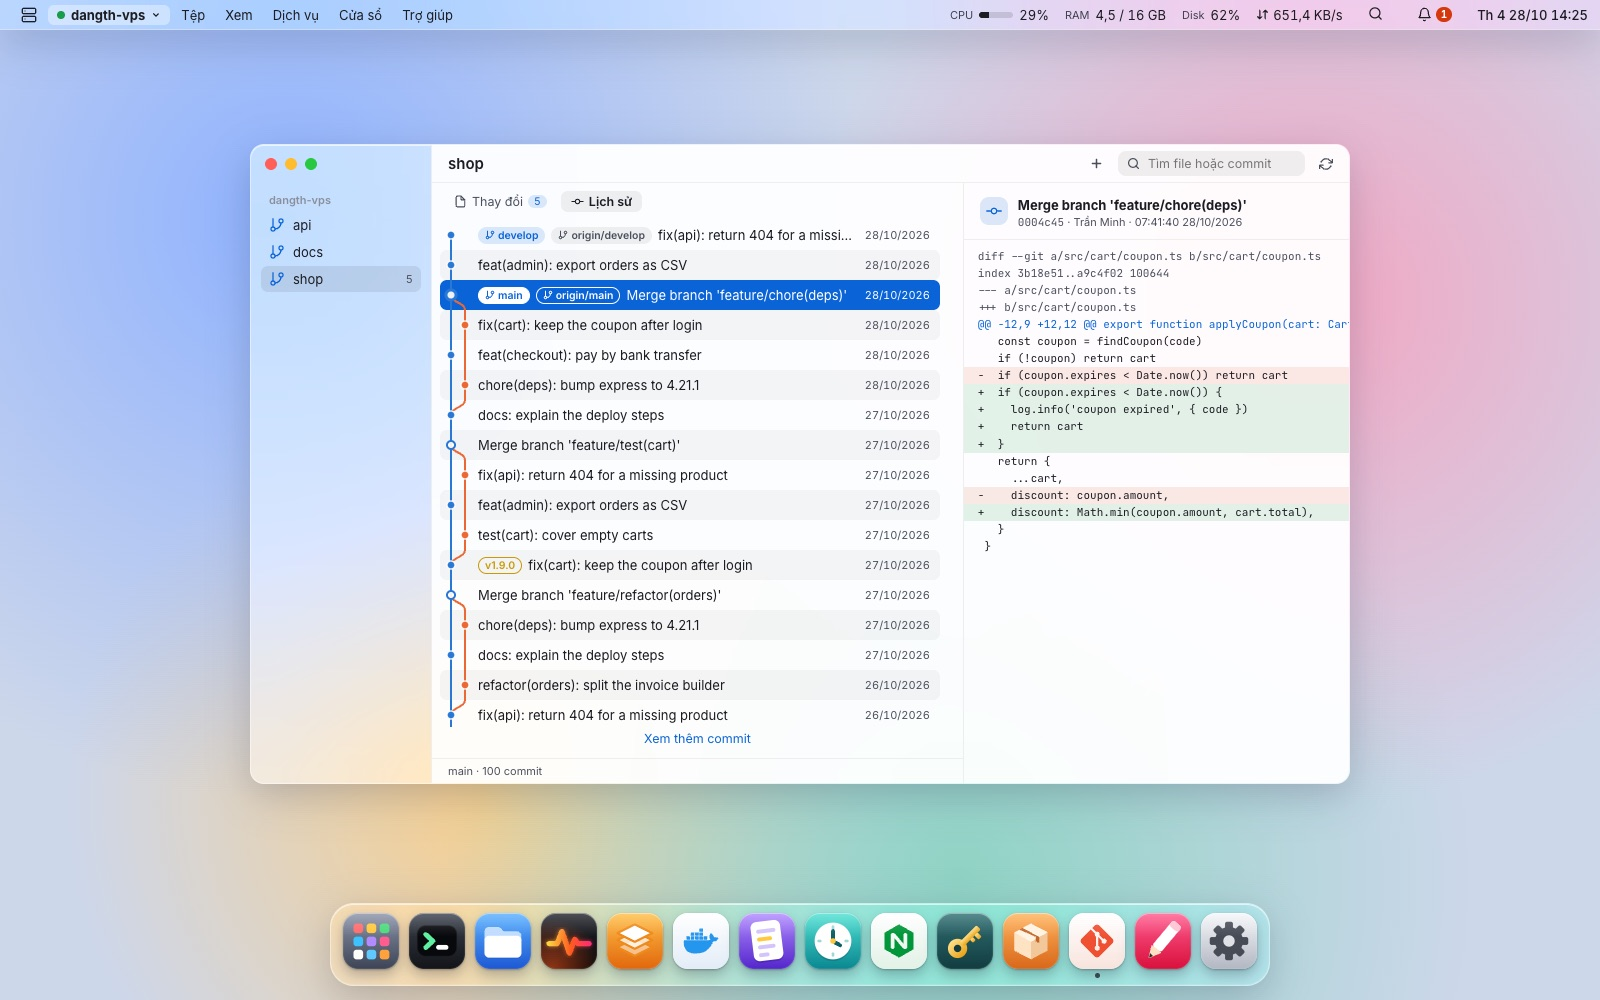
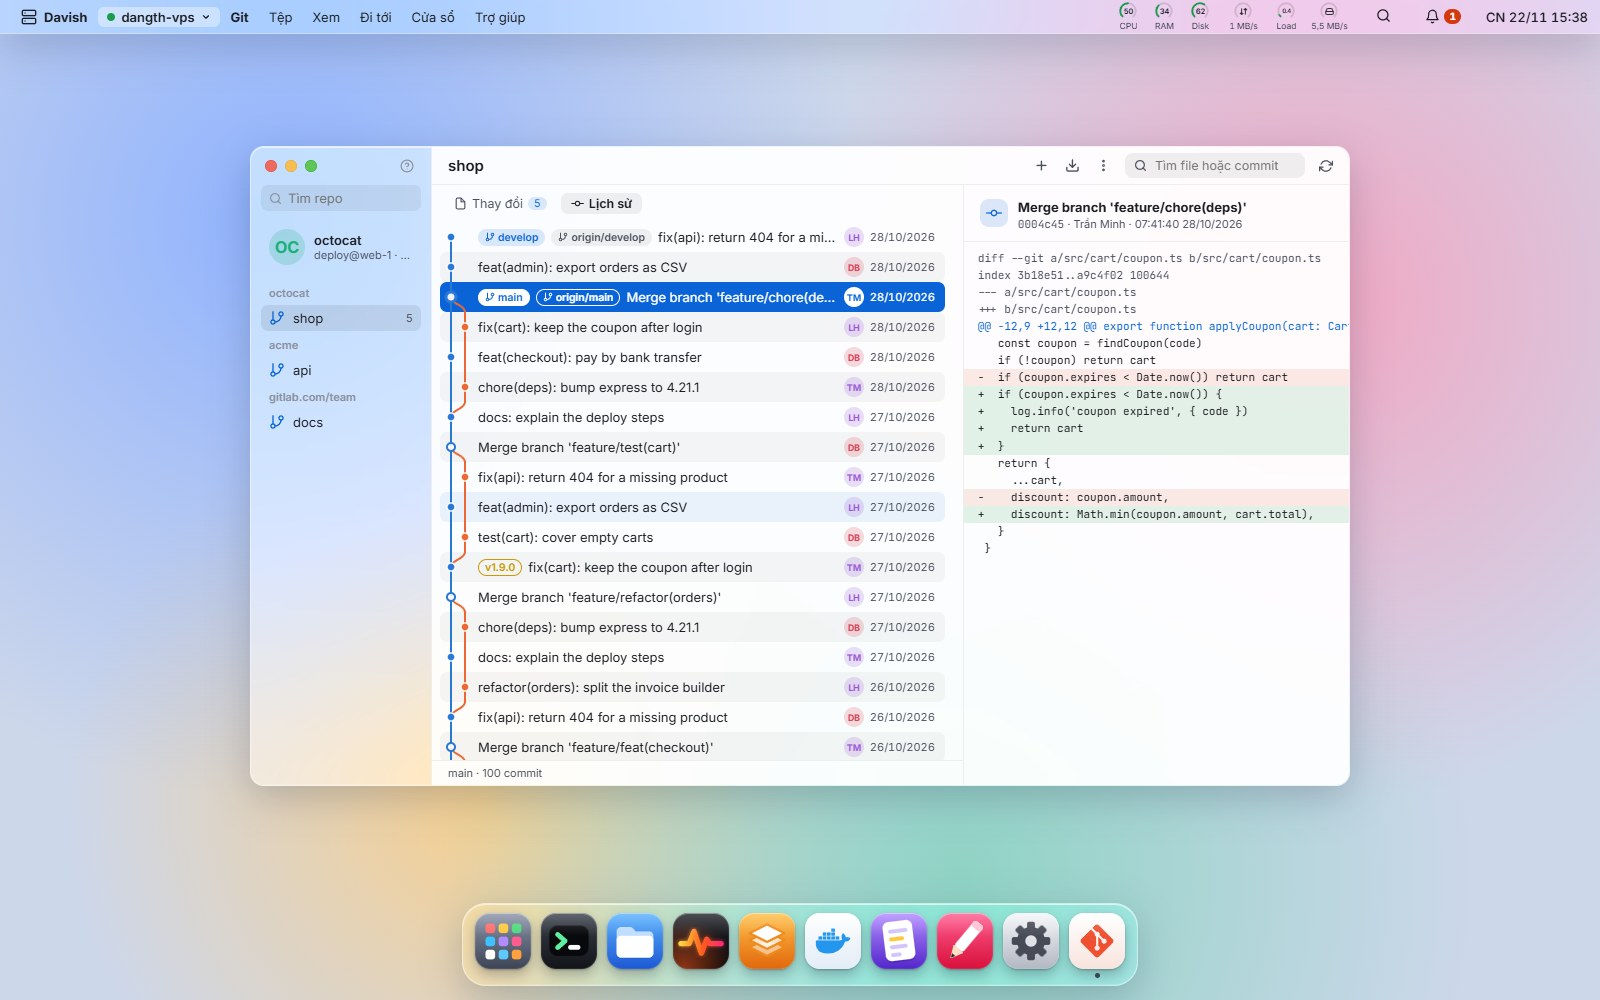
docs: retake the Git and Settings screenshots, sync the Git docs page
The shots predated the Git account card, repositories grouped by owner and the Settings Account and About panes (#213, #215, #219); the old dark Git shot also showed the unstyled ⋮ button. Same frames as before, 1600×1000. The site's Git page gets the grouping and account paragraphs FEATURES already has.

diff --git a/site/src/content/docs/vi/docs/services-and-apps/git.md b/site/src/content/docs/vi/docs/services-and-apps/git.md
@@ -5,9 +5,9 @@ sidebar:
   order: 8
 ---
 
-Tìm repo trong home, `/var/www`, `/srv`, `/opt` hoặc thư mục bạn thêm. Nhánh, nhánh remote và số commit chưa đẩy/chưa kéo, file thay đổi kèm diff, biểu đồ commit của mọi nhánh với merge và tag. Fetch, `pull --ff-only` (bị chặn khi repo còn thay đổi chưa commit) và đổi nhánh sau khi xác nhận đúng lệnh; `npm ci` / yarn / pnpm theo lockfile trong Terminal. Remote từ chối key thì dẫn tới tạo deploy key.
+Tìm repo trong home, `/var/www`, `/srv`, `/opt` hoặc thư mục bạn thêm, nhóm theo user hoặc org của remote (của bạn đứng đầu). Nhánh, nhánh remote và số commit chưa đẩy/chưa kéo, file thay đổi kèm diff, biểu đồ commit của mọi nhánh với merge và tag. Fetch, `pull --ff-only` (bị chặn khi repo còn thay đổi chưa commit) và đổi nhánh sau khi xác nhận đúng lệnh; `npm ci` / yarn / pnpm theo lockfile trong Terminal. Remote từ chối key thì dẫn tới tạo deploy key.
 
-**Clone repo…** (SSH hoặc HTTPS, thư mục, nhánh), **git init** và **Đặt remote…** gõ sẵn lệnh vào Terminal. Với GitHub và GitLab qua SSH, host key họ công bố được thêm vào `known_hosts` trước; có nút dẫn tới tạo deploy key. **Deploy…** giữ công thức cho mỗi repo trên máy bạn (pull, cài, build, khởi động lại…) và chạy từng bước trong Terminal, dừng ở bước đầu tiên bị lỗi. Davish xem repo (lockfile, script trong `package.json`, file compose, `go.mod`, `Makefile`) và tìm app đang chạy từ thư mục đó (pm2, systemd, Docker compose), rồi đưa ra các bước bật/tắt được: lấy code mới, cài thư viện, build, khởi động lại app, cộng thêm bước tùy chỉnh. Mỗi bước hiện đúng lệnh sẽ chạy, lựa chọn được nhớ cho lần sau. Bấm Deploy là chạy ngay trong Terminal; có bước cần sudo thì lệnh được gõ sẵn để bạn nhấn Enter và nhập mật khẩu. Terminal hiện từng bước xong, đang chạy hay lỗi kèm thời gian, có thông báo khi deploy xong hoặc lỗi ở bước nào, và repo liệt kê các lần deploy gần đây kèm commit và thời gian chạy.
+Tài khoản ở đầu sidebar cho biết server làm việc với git dưới danh nghĩa ai: người dùng SSH, tên và email git, có lưu token HTTPS không, các key trong `~/.ssh`, và tài khoản GitHub hay GitLab mà key đó đăng nhập được. Phần này chỉ đọc: mỗi host được hỏi riêng bằng `ssh -T`, chỉ tin host key họ công bố, host nào server không kết nối tới thì bỏ qua. **Clone repo…** (SSH hoặc HTTPS, thư mục, nhánh) chạy bằng một nút khi key của server được chấp nhận hoặc repo public, xong thì mở luôn repo mới; repo cần token thì gõ sẵn lệnh vào Terminal để bạn đăng nhập ở đó. Với GitHub và GitLab qua SSH, host key họ công bố được thêm vào `known_hosts` trước; chưa có key được chấp nhận thì có nút dẫn tới tạo deploy key. **git init** và **Đặt remote…** gõ sẵn lệnh vào Terminal. **Deploy…** giữ công thức cho mỗi repo trên máy bạn (pull, cài, build, khởi động lại…) và chạy từng bước trong Terminal, dừng ở bước đầu tiên bị lỗi. Davish xem repo (lockfile, script trong `package.json`, file compose, `go.mod`, `Makefile`) và tìm app đang chạy từ thư mục đó (pm2, systemd, Docker compose), rồi đưa ra các bước bật/tắt được: lấy code mới, cài thư viện, build, khởi động lại app, cộng thêm bước tùy chỉnh. Mỗi bước hiện đúng lệnh sẽ chạy, lựa chọn được nhớ cho lần sau. Bấm Deploy là chạy ngay trong Terminal; có bước cần sudo thì lệnh được gõ sẵn để bạn nhấn Enter và nhập mật khẩu. Terminal hiện từng bước xong, đang chạy hay lỗi kèm thời gian, có thông báo khi deploy xong hoặc lỗi ở bước nào, và repo liệt kê các lần deploy gần đây kèm commit và thời gian chạy.
 
   
 ![Biểu đồ commit của mọi nhánh](../../../../../../../assets/screenshots/git.jpg)

diff --git a/site/src/content/docs/docs/services-and-apps/git.md b/site/src/content/docs/docs/services-and-apps/git.md
@@ -5,9 +5,9 @@ sidebar:
   order: 8
 ---
 
-Finds the repositories in your home, `/var/www`, `/srv` and `/opt`, or folders you add. Branch, upstream and how far ahead or behind, changed files with their diffs, and a commit graph of every branch with merges and tags. Fetch, `pull --ff-only` (refused while the tree is dirty) and switch branches after confirming the exact command; `npm ci` / yarn / pnpm from the lockfile in a terminal. A rejected key leads to creating a deploy key.
+Finds the repositories in your home, `/var/www`, `/srv` and `/opt`, or folders you add, grouped by the user or org of their remote (yours first). Branch, upstream and how far ahead or behind, changed files with their diffs, and a commit graph of every branch with merges and tags. Fetch, `pull --ff-only` (refused while the tree is dirty) and switch branches after confirming the exact command; `npm ci` / yarn / pnpm from the lockfile in a terminal. A rejected key leads to creating a deploy key.
 
-**Clone a repository…** (SSH or HTTPS, folder, branch), **git init** and **Set a remote…** type the command into a terminal. For GitHub and GitLab over SSH, the host key they publish is added to `known_hosts` first; a button leads to creating a deploy key. **Deploy…** keeps a recipe per repository on your computer (pull, install, build, restart…) and runs it step by step in a terminal, stopping at the first step that fails. Davish looks at the repository (lockfile, `package.json` scripts, compose file, `go.mod`, `Makefile`) and at what runs the app from that folder (pm2, systemd, Docker compose), and offers the steps as switches: get the new code, install dependencies, build, restart the app, plus custom steps. Each step shows its exact command, and the choices are remembered. Deploy runs right away in a terminal; when a step needs sudo, the line is typed for you to press Enter and type the password. The terminal shows each step as done, running or failed with its time, a notification says when the deploy finished or which step failed, and the repository lists its last deploys with commit and duration.
+The account at the top of the sidebar shows who the server works as for git: the SSH user, git's global name and email, whether HTTPS tokens are stored, the keys in `~/.ssh`, and the GitHub or GitLab account those keys sign in to. It is read only: each host is asked with `ssh -T` on its own, trusting only the host key it publishes, and one the server never reaches is simply left out. **Clone a repository…** (SSH or HTTPS, folder, branch) runs with one button when the server's key is accepted or the repository is public, and opens the new repository; one that needs a token is typed into a terminal for you to sign in there. For GitHub and GitLab over SSH, the host key they publish is added to `known_hosts` first; when no key is accepted, a button leads to creating a deploy key. **git init** and **Set a remote…** type the command into a terminal. **Deploy…** keeps a recipe per repository on your computer (pull, install, build, restart…) and runs it step by step in a terminal, stopping at the first step that fails. Davish looks at the repository (lockfile, `package.json` scripts, compose file, `go.mod`, `Makefile`) and at what runs the app from that folder (pm2, systemd, Docker compose), and offers the steps as switches: get the new code, install dependencies, build, restart the app, plus custom steps. Each step shows its exact command, and the choices are remembered. Deploy runs right away in a terminal; when a step needs sudo, the line is typed for you to press Enter and type the password. The terminal shows each step as done, running or failed with its time, a notification says when the deploy finished or which step failed, and the repository lists its last deploys with commit and duration.
 
   
 ![The commit graph of every branch](../../../../../../assets/screenshots/en/git.jpg)
